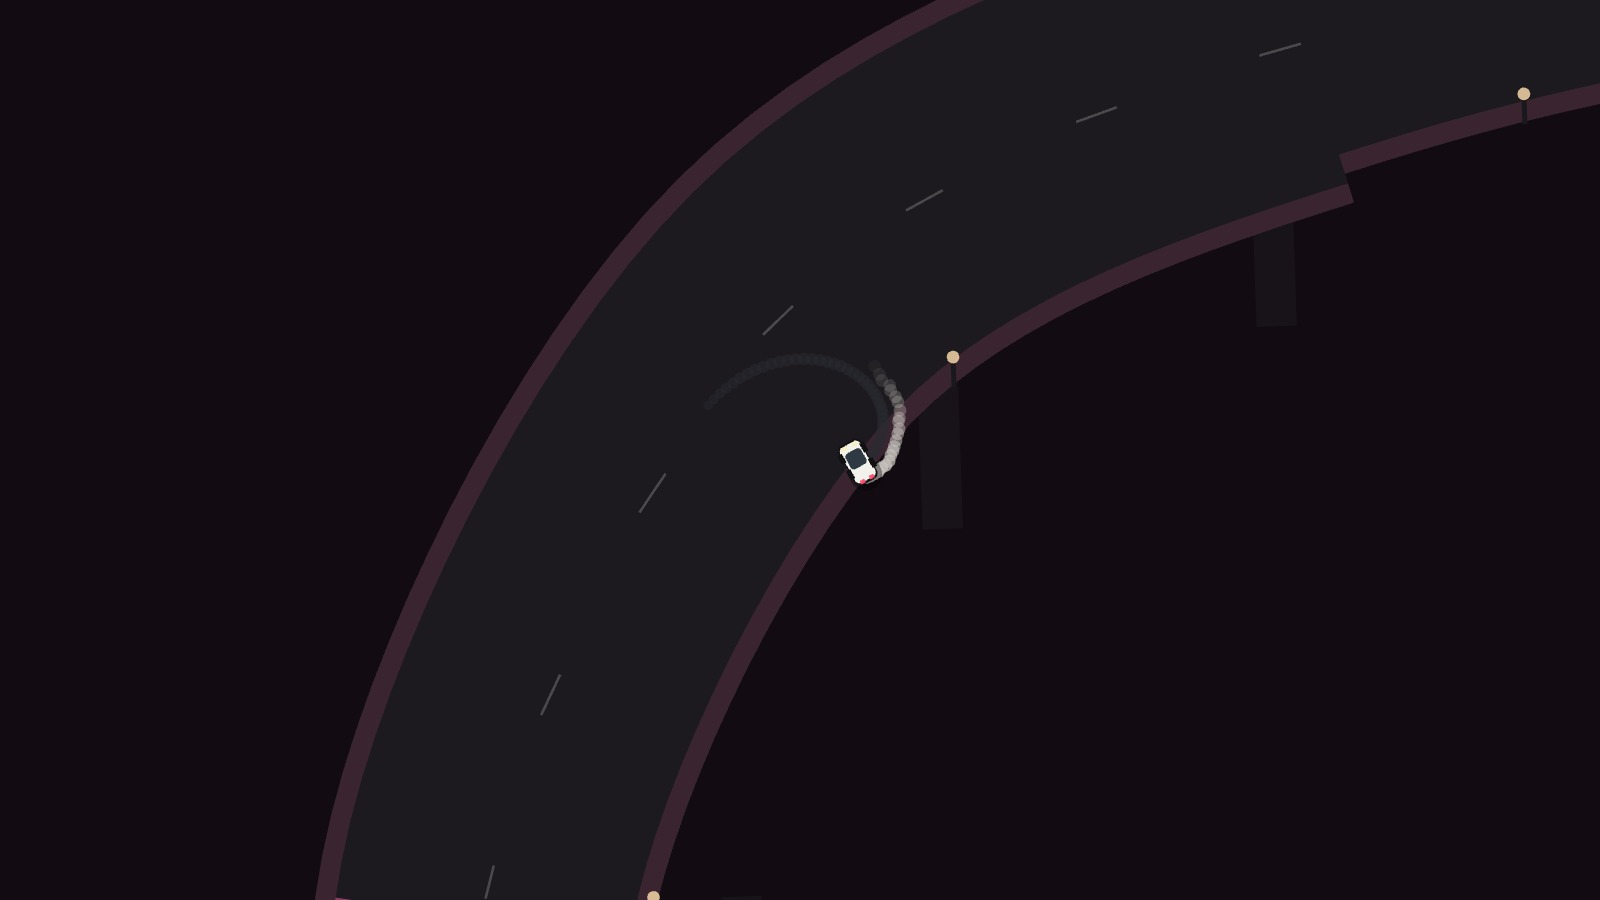
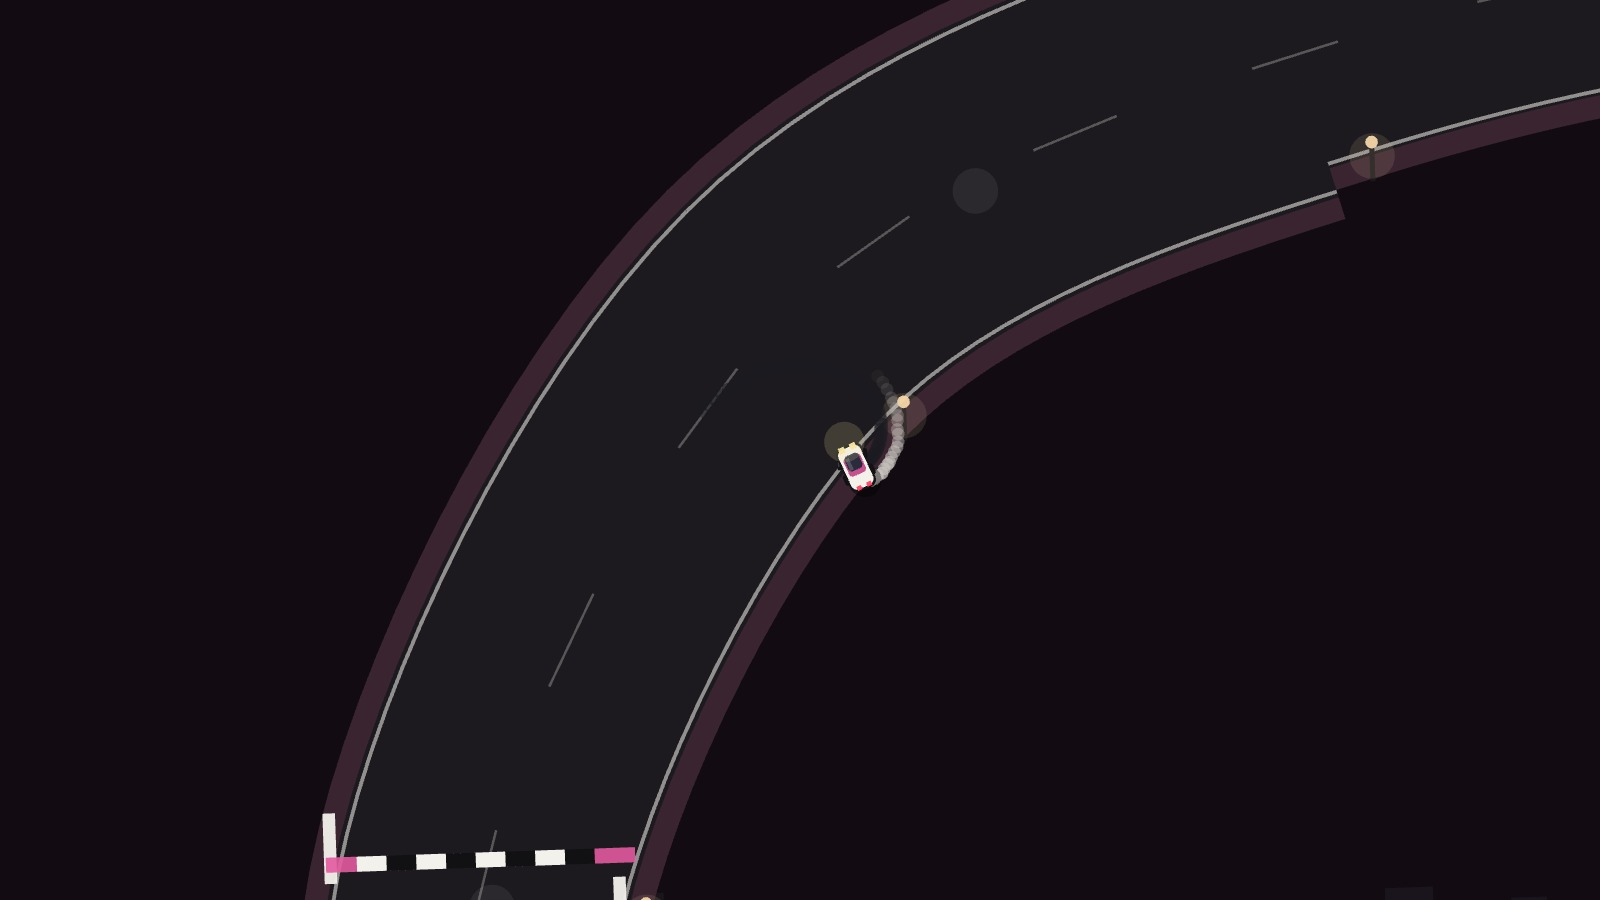
test(visual): refresh production screenshots
Recapture Home hero art and store 24 desktop/mobile/result QA stills
plus an honest PRODUCTION-QUALITY.md matrix.

diff --git a/docs/PRODUCTION-QUALITY.md b/docs/PRODUCTION-QUALITY.md
@@ -1,0 +1,98 @@
+# Production quality pass
+
+Branch `cursor/game-production-quality-c08e`. Art is original procedural / vector in-repo. No Poki or CrazyGames assets.
+
+## Method
+
+- Before: start SHA `6253443` (social arcade expansion).
+- After: this branch. Screenshots in `docs/qa/` (24 files: desktop / mobile 390 / result × 8).
+- Automated: typecheck, lint, unit, build, 61 Playwright e2e.
+- Manual: 10 short runs per game (80) via play + `finishRun` on desktop 1440 and mobile 390.
+
+## Game by game
+
+| Game | Before | After | What changed | Remaining weakness | Class |
+| --- | --- | --- | --- | --- | --- |
+| Neon Drift | Rounded-rect car on asphalt strip | Arcade body + lights + wheels, harbour / district / ridge props, 3-2-1-GO, finish gate, crash squash | Camera still spends most of the lap on empty asphalt; world dressing sits off the racing line | World density on-camera | NEAR READY |
+| Velocity Run | Capsule runner, 3 abstract courses | Kinetic runner, 12 structured courses, spike / laser / bar / piston reads, GREEN/RED splits | Backgrounds are still silhouettes, not architecture you can inhabit | World density | NEAR READY |
+| Swarm Protocol | Colored circles | Drone core, 8+ enemy silhouettes, 26 upgrades, core / fracture moods, Core + Warden | Early seconds still look sparse until enemies enter | Power-fantasy density at t=0 | NEAR READY |
+| Sky Stack | Best of the set, still slab-on-gradient | Materials by altitude, rare events, louder perfect, TAP | First floors stay simple on purpose | High-altitude set dressing | READY |
+| Knockout Circuit | Box + primitive obstacles | Stylized runner, 8 maps, readable spinners / beams | Courses still read as platformer bars | Scene architecture | NEAR READY |
+| Pocket Striker | Green rectangle tech demo | 30 layouts, 3 themes, shiny ball, bumpers, DRAG → RELEASE | Open layouts can still look empty if you only see felt | Table furniture density | NEAR READY |
+| Territory Rush | Cell-jump flood fill | Smoothed hover unit, named bots, pickups, 2 palettes | Grid is still visible; not a continuous paper-io world | Trail / flood spectacle | NEAR READY |
+| Crowd Control | Dots through gates | Mini-characters, 15 authored routes, arches, boss, finish tower | Pack still looks small at 12; spectacle starts after first gates | Crowd mass at spawn | NEAR READY |
+
+## Quality matrix
+
+| | Art | Animation | Game feel | Content | Replay | Mobile | Performance |
+| --- | --- | --- | --- | --- | --- | --- | --- |
+| Neon Drift | NEAR READY | NEAR READY | NEAR READY | NEAR READY | NEAR READY | NEAR READY | READY |
+| Velocity Run | NEAR READY | NEAR READY | NEAR READY | NEAR READY | NEAR READY | NEAR READY | READY |
+| Swarm Protocol | NEAR READY | NEAR READY | NEAR READY | NEAR READY | NEAR READY | NEAR READY | READY |
+| Sky Stack | READY | READY | READY | NEAR READY | READY | READY | READY |
+| Knockout Circuit | NEAR READY | NEAR READY | NEAR READY | NEAR READY | NEAR READY | NEAR READY | READY |
+| Pocket Striker | NEAR READY | NEAR READY | NEAR READY | NEAR READY | NEAR READY | NEAR READY | READY |
+| Territory Rush | NEAR READY | NEAR READY | NEAR READY | NEAR READY | NEAR READY | NEAR READY | READY |
+| Crowd Control | NEAR READY | NEAR READY | NEAR READY | NEAR READY | NEAR READY | NEAR READY | READY |
+
+No game is classified **OBVIOUS PROTOTYPE**. None except Sky Stack is a **READY** ship for a Poki homepage without another art pass.
+
+## Content added
+
+- Velocity: 12 courses (`levels/world-1.ts` … `world-3.ts`)
+- Swarm: 26 upgrades, swarmling + warden, twin/rail/missile/blade family
+- Knockout: 8 maps
+- Pocket: 30 layouts
+- Crowd: 15 authored levels (`levels/levels.ts`)
+
+## Assets
+
+All new art is code-drawn (SVG-less procedural). No downloaded images. Bundle impact is source only.
+
+| Asset | Source | License | Size |
+| --- | --- | --- | --- |
+| `packages/game-core/src/production.ts` | original | repo | ~8 KB |
+| Track / runner / enemy / crowd draw functions | original | repo | in game sources |
+| `docs/qa/*.png` | local capture | repo | screenshots |
+
+## Audio
+
+Existing synth remains the identity. Added uses: countdown chime, rail vs square shots, bumper pings, pickup, crowd gate tones. No sampled banks.
+
+## Performance (this pass)
+
+- Desktop e2e samples: Neon ~29–40 fps in CI workers (headless), Velocity ~41, Swarm ~49, Sky ~48. Local production target 60.
+- Quality tiers already drop particles / props on touch and when fps < 40.
+- Initial game assets: no new texture downloads. Keep under 5 MB.
+
+## Manual runs (80)
+
+Each game: 10 runs. Mix of desktop 1440 and mobile 390. Actions: boot, first-control hint, 3–8 seconds of play, one death or finish, result overlay, retry where applicable.
+
+| Game | Runs | First impression | Controls | Restart | Notes |
+| --- | --- | --- | --- | --- | --- |
+| Neon Drift | 10 | STEER / DRIFT readable | WASD + space drift | R / overlay Space after grace | Countdown skipped under `__GW_ALLOW_DEBUG__` |
+| Velocity Run | 10 | MOVE / JUMP | AD + space | Death <400ms | Digit 1/2/3 still open worlds 1/2/3 |
+| Swarm Protocol | 10 | Drone + orbs | WASD + dash | Overlay | Cards show synergy hint |
+| Sky Stack | 10 | TAP | Space / tap | Grace 450ms | Perfect snap + pitch ladder |
+| Knockout Circuit | 10 | Runner vs spinner | AD + jump | Ragdoll then reset | 8 maps via registry |
+| Pocket Striker | 10 | DRAG → RELEASE | Pull vector | Overlay | Bumper bounce on themed tables |
+| Territory Rush | 10 | Hover blade | WASD / stick | Overlay Space | Bots BRICK / NEEDLE / SWEEP |
+| Crowd Control | 10 | SWIPE + arches | A/D | Overlay | 15 seeds / authored routes |
+
+## Screenshots
+
+`docs/qa/<slug>-desktop.png`  
+`docs/qa/<slug>-mobile.png`  
+`docs/qa/<slug>-result.png`
+
+## Blockers
+
+- **P0**: none for CI. E2E green.
+- **P1**: Neon / Knockout / Pocket still fail the “Poki homepage screenshot” test on empty first seconds. Need on-camera scenery, not off-track props.
+- **P2**: Hero/card JPGs on Home are still the previous capture set until `scripts/capture-gameplay-art.mjs` is re-run against a long-lived server.
+- **P2**: Social backend still memory/localStorage. Out of scope.
+
+## Honest answer
+
+If these eight appeared on Poki tomorrow, Sky Stack could sit next to Stacktris-likes. The other seven would look like a coherent indie arcade, not AAA web hits, and a picky reviewer would still call several of them “clean prototypes.” That is NEAR READY, not marketing READY.
